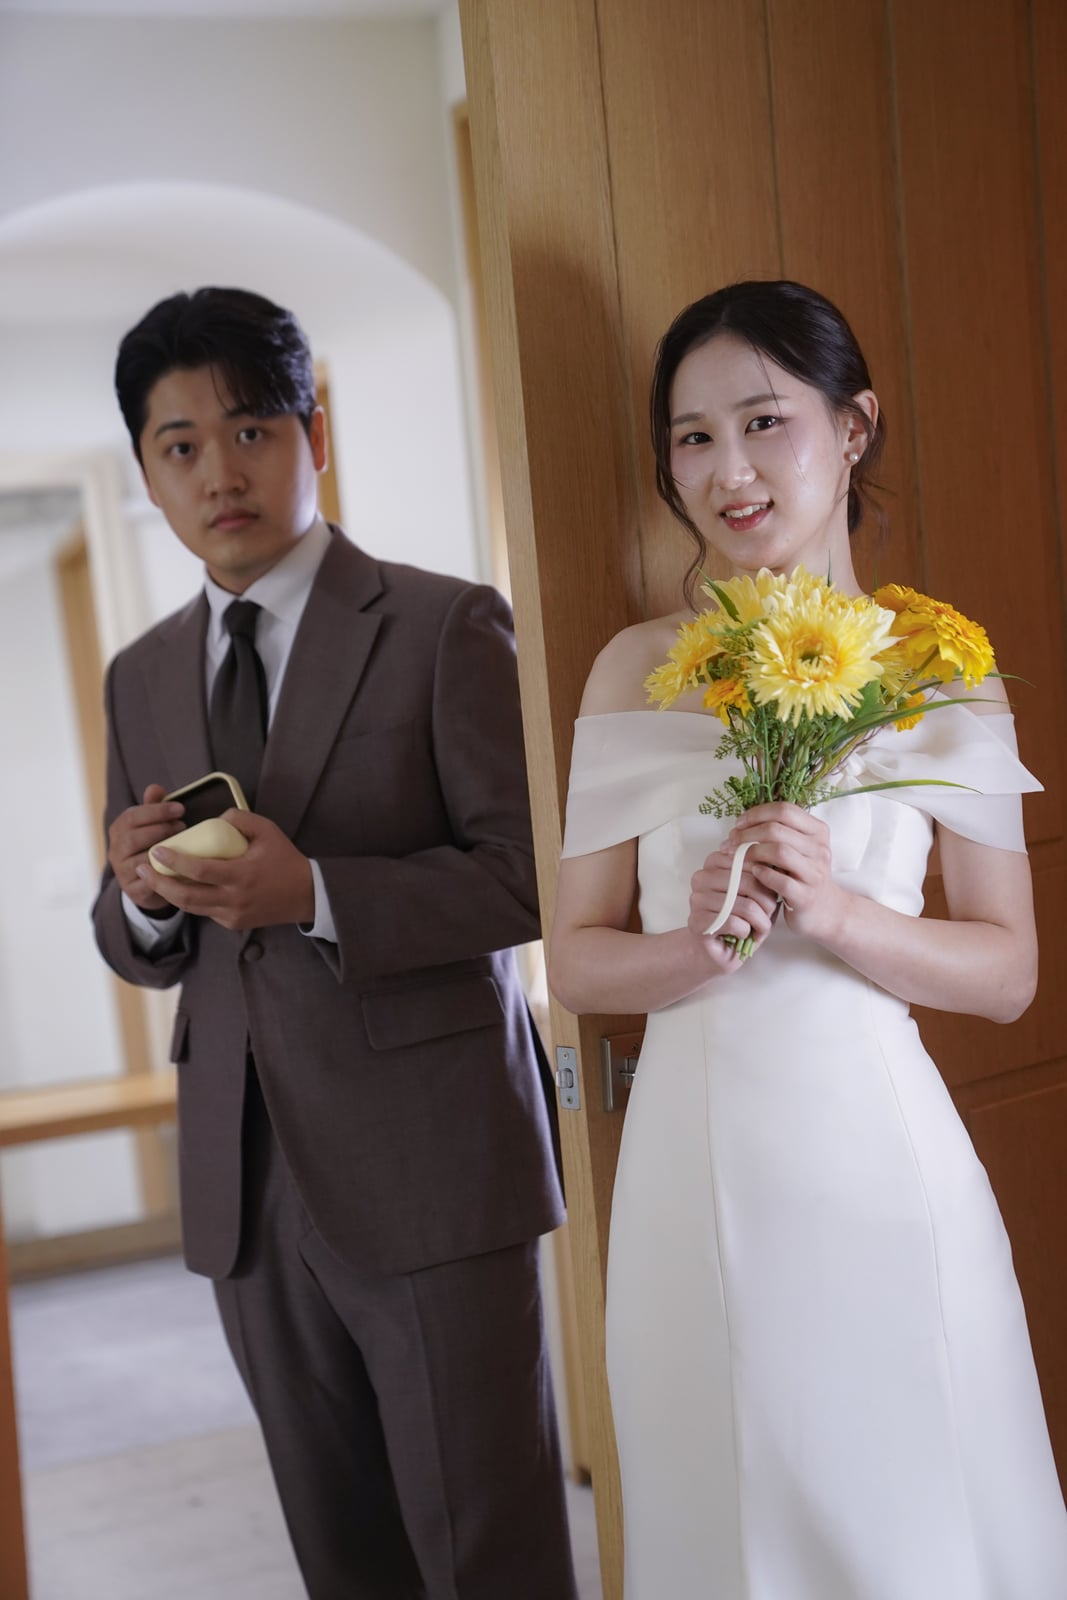
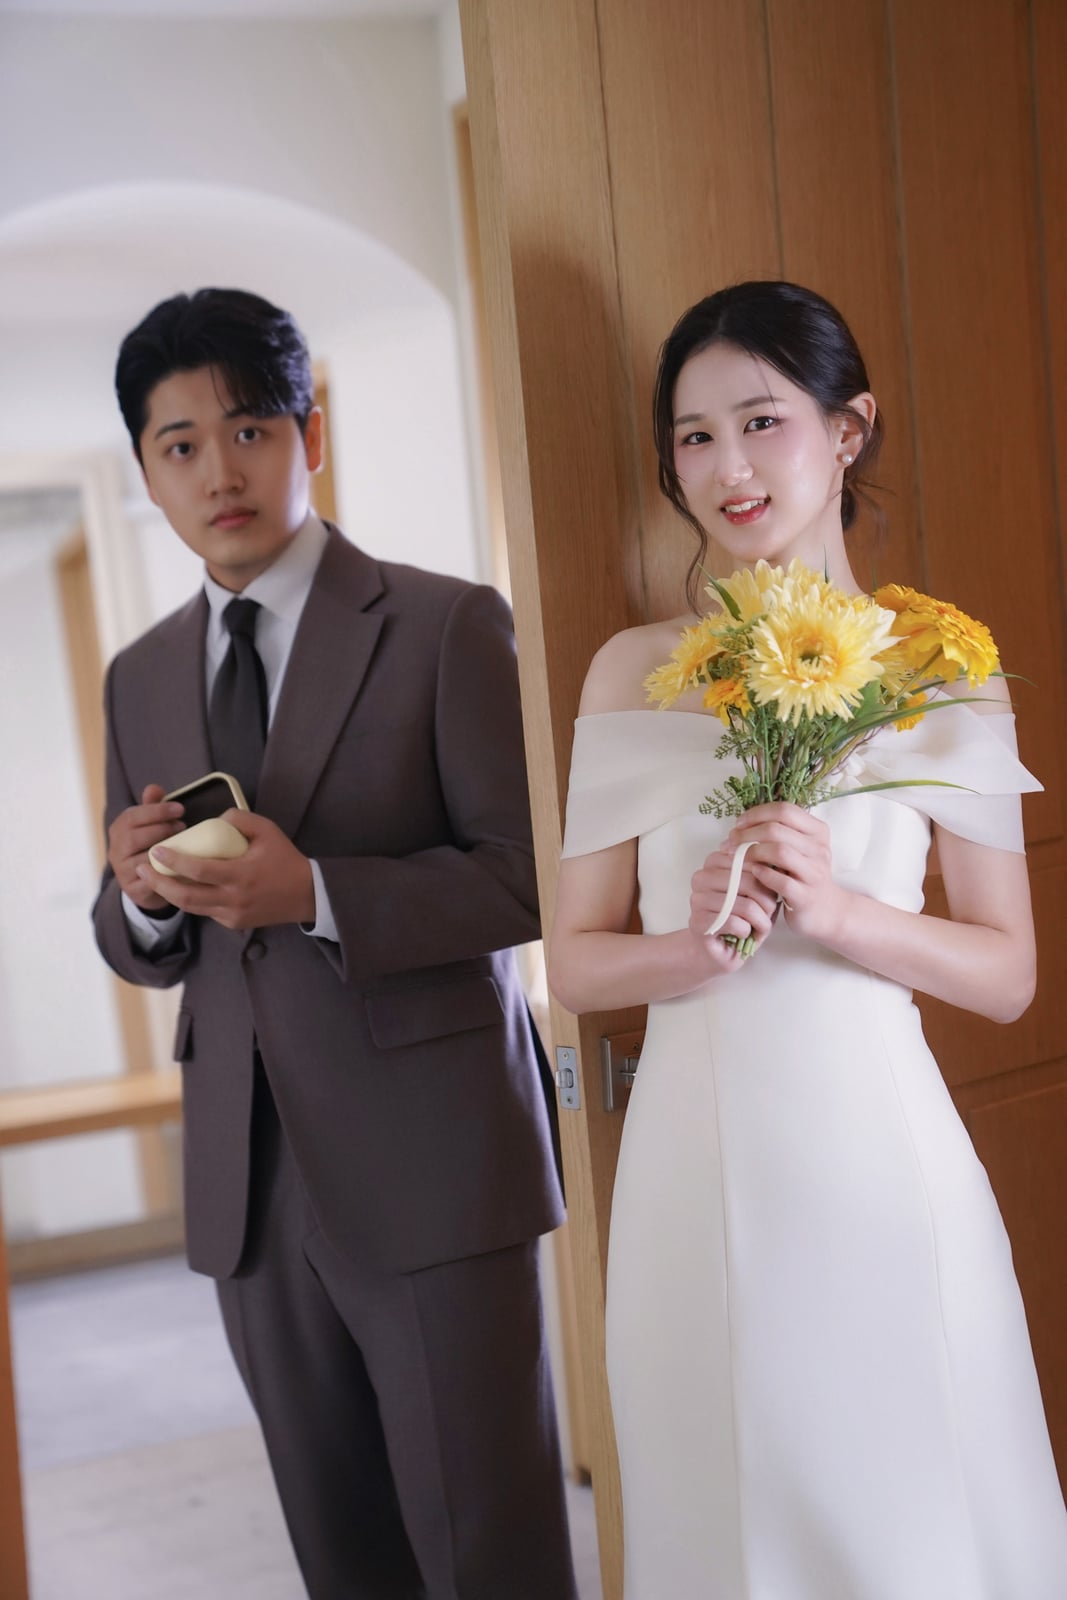
Add files via upload

diff --git a/js/config.js b/js/config.js
@@ -26,21 +26,21 @@ export const CONFIG = {
     { label: '신부', bank: '카카오뱅크', number: '7942-29-07510', holder: '이세라' }
   ],
   photos: [
-    { id: 1, src: './assets/photos/photo-01.jpg', alt: '노란 꽃다발과 반지 상자를 든 두 사람' },
-    { id: 2, src: './assets/photos/photo-02.jpg', alt: '색색의 리본 속에서 웃는 두 사람' },
-    { id: 3, src: './assets/photos/photo-03.jpg', alt: '하트 풍선을 들고 서로 바라보는 두 사람' },
-    { id: 4, src: './assets/photos/photo-04.jpg', alt: '거울 앞에서 컵케이크를 든 두 사람' },
-    { id: 5, src: './assets/photos/photo-05.jpg', alt: '노란 꽃다발을 든 신부와 반지 상자를 든 신랑' },
-    { id: 6, src: './assets/photos/photo-06.jpg', alt: '거울에 결혼 날짜를 쓰는 두 사람' },
-    { id: 7, src: './assets/photos/photo-07.jpg', alt: '흰 꽃다발을 든 신부의 모습을 담는 신랑' },
-    { id: 8, src: './assets/photos/photo-08.jpg', alt: '선글라스와 레이스를 맞춰 쓴 두 사람' },
-    { id: 9, src: './assets/photos/photo-09.jpg', alt: '검은 턱시도 차림으로 꽃다발을 든 신랑' },
-    { id: 10, src: './assets/photos/photo-10.jpg', alt: '붉은 리본을 나란히 든 신랑과 신부' },
-    { id: 11, src: './assets/photos/photo-11.jpg', alt: '컵케이크를 들고 눈을 맞추는 두 사람' },
-    { id: 12, src: './assets/photos/photo-12.jpg', alt: '흰 소파에 앉아 미소 짓는 신부' },
-    { id: 13, src: './assets/photos/photo-13.jpg', alt: '창가에서 서로를 바라보는 두 사람' },
-    { id: 14, src: './assets/photos/photo-14.jpg', alt: '하트 풍선을 들고 손을 잡은 두 사람' },
-    { id: 15, src: './assets/photos/photo-15.jpg', alt: '12와 19 숫자 풍선을 든 두 사람' }
+    { id: 1, src: './assets/photos/photo-01.jpg?v=20260924b', alt: '노란 꽃다발과 반지 상자를 든 두 사람' },
+    { id: 2, src: './assets/photos/photo-02.jpg?v=20260924b', alt: '색색의 리본 속에서 웃는 두 사람' },
+    { id: 3, src: './assets/photos/photo-03.jpg?v=20260924b', alt: '하트 풍선을 들고 서로 바라보는 두 사람' },
+    { id: 4, src: './assets/photos/photo-04.jpg?v=20260924b', alt: '거울 앞에서 컵케이크를 든 두 사람' },
+    { id: 5, src: './assets/photos/photo-05.jpg?v=20260924b', alt: '노란 꽃다발을 든 신부와 반지 상자를 든 신랑' },
+    { id: 6, src: './assets/photos/photo-06.jpg?v=20260924b', alt: '거울에 결혼 날짜를 쓰는 두 사람' },
+    { id: 7, src: './assets/photos/photo-07.jpg?v=20260924b', alt: '흰 꽃다발을 든 신부의 모습을 담는 신랑' },
+    { id: 8, src: './assets/photos/photo-08.jpg?v=20260924b', alt: '선글라스와 레이스를 맞춰 쓴 두 사람' },
+    { id: 9, src: './assets/photos/photo-09.jpg?v=20260924b', alt: '검은 턱시도 차림으로 꽃다발을 든 신랑' },
+    { id: 10, src: './assets/photos/photo-10.jpg?v=20260924b', alt: '붉은 리본을 나란히 든 신랑과 신부' },
+    { id: 11, src: './assets/photos/photo-11.jpg?v=20260924b', alt: '컵케이크를 들고 눈을 맞추는 두 사람' },
+    { id: 12, src: './assets/photos/photo-12.jpg?v=20260924b', alt: '흰 소파에 앉아 미소 짓는 신부' },
+    { id: 13, src: './assets/photos/photo-13.jpg?v=20260924b', alt: '창가에서 서로를 바라보는 두 사람' },
+    { id: 14, src: './assets/photos/photo-14.jpg?v=20260924b', alt: '하트 풍선을 들고 손을 잡은 두 사람' },
+    { id: 15, src: './assets/photos/photo-15.jpg?v=20260924b', alt: '12와 19 숫자 풍선을 든 두 사람' }
   ],
   treasures: {
     meet: { title: '너라는 선물', photos: [9, 12, 13] },

diff --git a/VERIFICATION.md b/VERIFICATION.md
@@ -87,3 +87,10 @@
 사용자 요청으로 사진 기반 캐릭터 변경을 취소하고 기존 배포본의 character()를 복원했습니다. 챕터별 사진 의상 분기를 제거하고 원래 마지막 장 웨딩 전환을 유지. 실제 게임에서 기본 캐릭터 표시 확인 및 문법 검사 통과.
 
 의상 전용 변경 검증: 모든 의상에서 신랑·신부의 머리 영역(y<-15) 드로잉 명령이 기본 캐릭터와 동일함을 비교 통과. 예복 여부별로 각각 비교했습니다. 세 의상 걷기 미리보기 시각 확인 및 문법 검사 통과.
+
+## 2026-09-24 corrected photo replacement
+- Replaced all 15 album/treasure photos with newly supplied corrected images, matching existing scenes and IDs.
+- Optimized to maximum 1600px, preserved aspect ratios and EXIF orientation; combined JPEG size 1.97 MiB.
+- Added photo URL version 20260924b to refresh cached images.
+- Browser verified all 15 thumbnails loaded, full-size first image displayed, next navigation changed 01/15 to 02/15.
+
